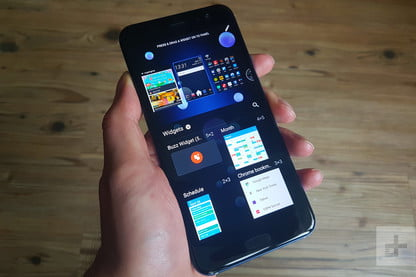
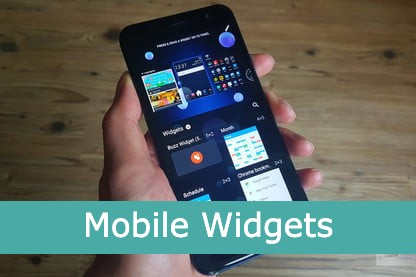
Completed portfolio images. Page complete

Changed region(s): [[0.0, 0.722, 1.0, 0.9242], [0.3438, 0.2599, 0.4375, 0.3755], [0.5312, 0.491, 0.625, 0.5776]]

diff --git a/portfolio.html b/portfolio.html
@@ -24,11 +24,11 @@
         <h1>Portfolio</h1>
         <hr>
             <div class="clearfix aboutcontent">
-                 <div class="banner"><img id="img1" class="portfolioimg about" src="assets/images/Mobile-gaming.jpg"/></div>
-                 <img id="img1" class="portfolioimg about" src="assets/images/pokemon-lets-go-eevee-hero.webp"/>
+                 <img id="img1" class="portfolioimg about" src="assets/images/Mobile-gaming.jpg"/></div>
+                 <img id="img1" class="portfolioimg about" src="assets/images/RPG_Game.jpg"/>
                  <img id="img2" class="portfolioimg about" src="assets/images/trivia.jpg"/>
                  <img id="img1" class="portfolioimg about" src="assets/images/widgets.jpg"/>
-                 <img id="img2" class="portfolioimg about" src="assets/images/rockpaperscissors.png"/>
+                 <img id="img2" class="portfolioimg about" src="assets/images/rockpaperscissors.jpg"/>
             </div> 
        <!--Footer and Spacing for bottom of page-->
         <div class="push"></div>

diff --git a/assets/css/style.css b/assets/css/style.css
@@ -79,8 +79,8 @@ hr {
     width:900px;
 }
 
-/*
-.banner {
+
+/*.banner {
     width:200px;
     height:50px;
     background-color:blue;
